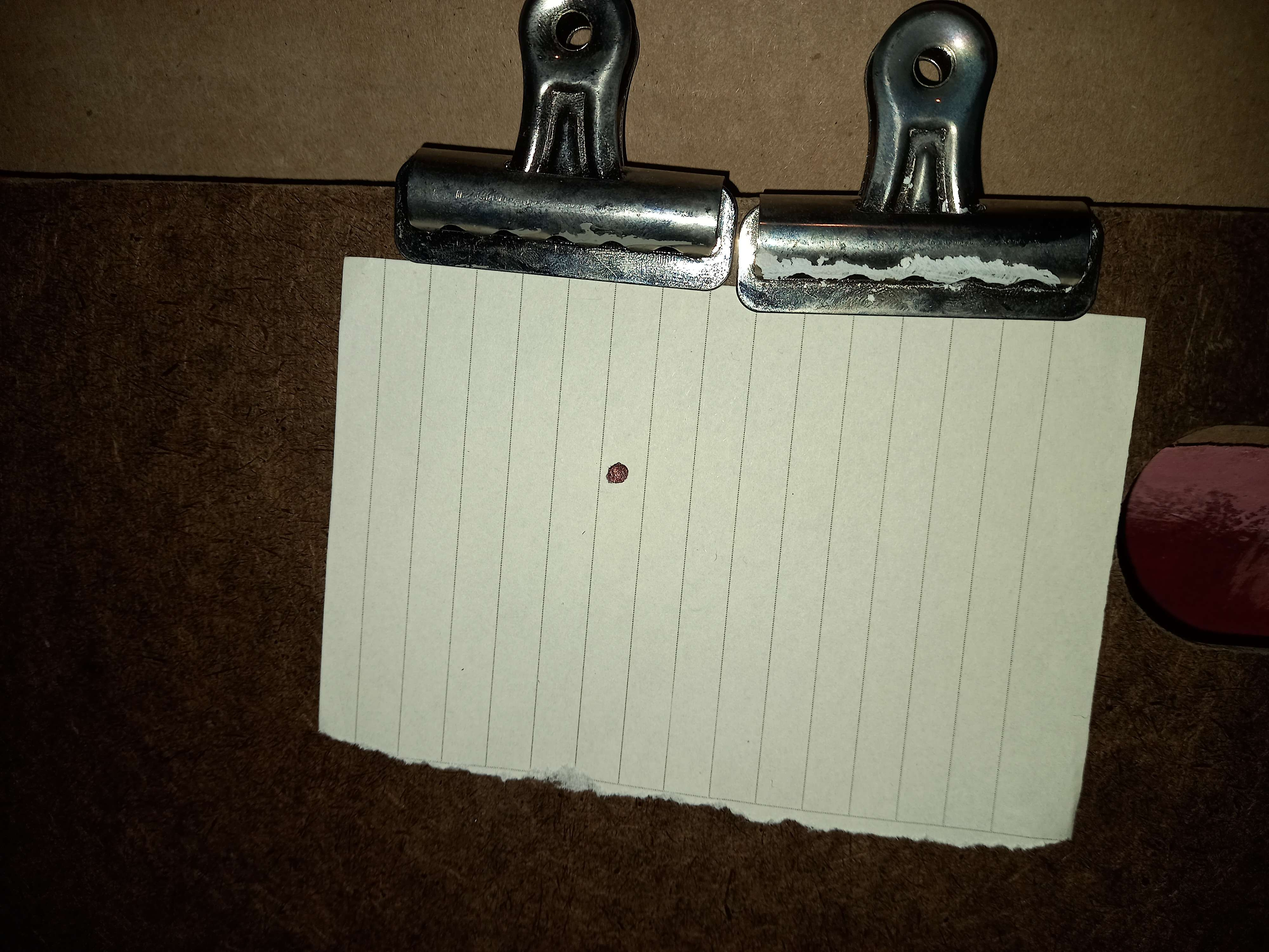
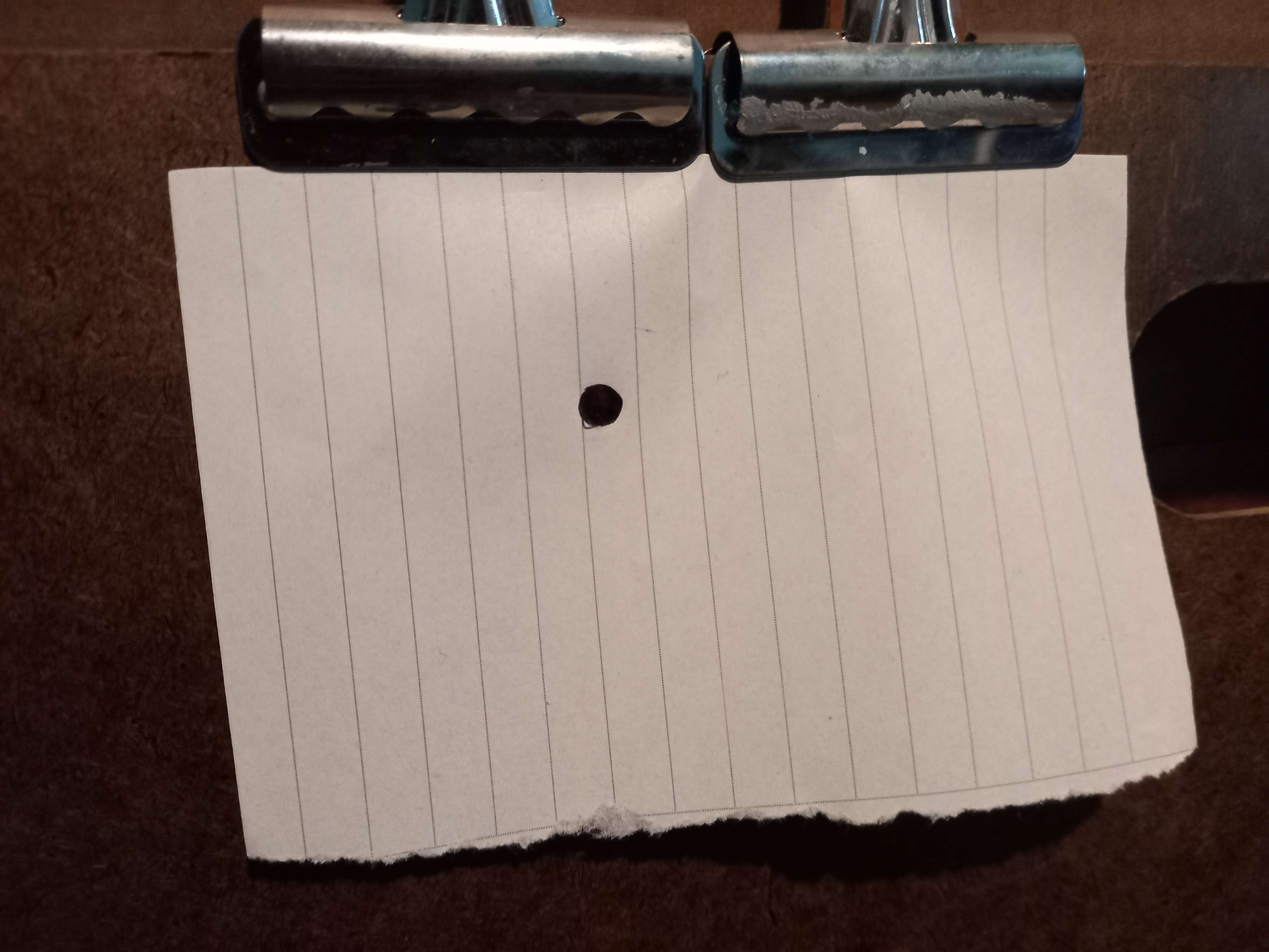
friday 3/10/23

diff --git a/index.html b/index.html
@@ -19,8 +19,9 @@
 		</ul>
 		<h2>Weekly Dot status</h2>
 		<p>Dot grows a little bit every Friday. Have fun on Friday to help it grow more</p>
+		<p>also sorry for not updating in a bit. computer switch happened and stuff</p>
 		<img src="/res/dot_status.jpg" style="width:20em;">
-		<p style="color:gray;font-size:8px;">DATE : 02-10-23 | SIZE : 4MM</P>
+		<p style="color:gray;font-size:8px;">DATE : 03-10-23 | SIZE : 6MM</P>
 		<br>
 		<a href="https://flare145.com/">back to FLARE145</a>
       </main>
